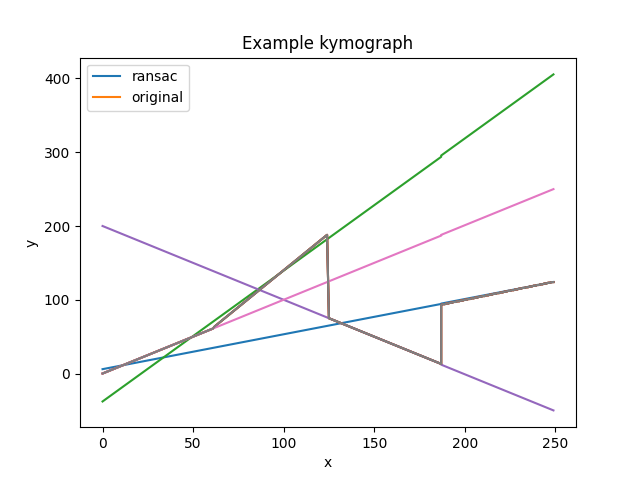
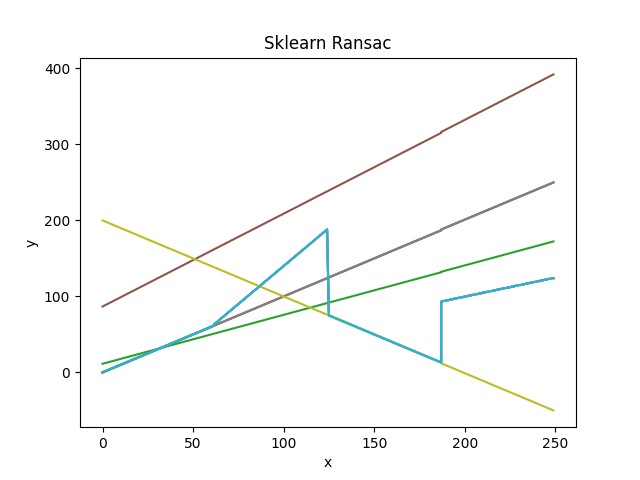
ransaconeto

diff --git a/src/caped_ai_mtrack/Fits/utils.py b/src/caped_ai_mtrack/Fits/utils.py
@@ -1,6 +1,57 @@
 import numbers
+import os
 
+import matplotlib.pyplot as plt
 import numpy as np
+from scipy import spatial
+
+
+def root_dir():
+    return os.path.dirname(os.path.abspath(__file__))
+
+
+def clean_ransac(estimators, data):
+
+    if isinstance(data, list):
+        data = np.asarray(data)
+    datalist = np.copy(data)
+    yarray, xarray = zip(*datalist.tolist())
+    tree = spatial.cKDTree(data)
+
+    segments = []
+
+    for estimator in estimators:
+
+        ypredict = []
+        xpredict = []
+        for x in range(np.asarray(xarray).shape[0]):
+            y = estimator.predict(x)
+
+            point = (y, x)
+
+            distance, nearest_location = tree.query(point)
+            nearest_location = (
+                int(data[nearest_location][0]),
+                int(data[nearest_location][1]),
+            )
+            if distance <= 4:
+                ypredict.append(y)
+                xpredict.append(x)
+        segments.append([ypredict, xpredict])
+    return segments
+
+
+def plot_ransac_gt(segments, yarray, xarray, save_name=""):
+
+    plt.cla()
+    plt.plot(xarray, yarray)
+    for ypredict, xpredict in segments:
+        plt.plot(xpredict, ypredict)
+    plt.title("MTrack Ransac")
+    plt.xlabel("x")
+    plt.ylabel("y")
+
+    plt.savefig(root_dir() + save_name)
 
 
 def check_consistent_length(*arrays):

diff --git a/src/caped_ai_mtrack/Fits/ransac.py b/src/caped_ai_mtrack/Fits/ransac.py
@@ -3,7 +3,7 @@ import warnings
 
 import numpy as np
 
-from .utils import check_consistent_length
+from .utils import check_consistent_length, clean_ransac, plot_ransac_gt
 
 _EPSILON = np.spacing(1)
 
@@ -206,8 +206,7 @@ class Ransac:
     def extract_first_ransac_line(self, starting_points):
 
         ransac_result = self.ransac(starting_points)
-        # ransac_result = ransac(np.asarray(starting_points), LineModelND, min_samples=self.min_samples,
-        # residual_threshold=self.max_distance, max_trials=self.max_trials)
+
         if ransac_result is not None:
             estimator, inliers = ransac_result
             results_inliers = []
@@ -230,6 +229,8 @@ class Ransac:
     def extract_multiple_lines(self):
 
         starting_points = self.data_points
+        data_points_list = np.copy(self.data_points)
+        data_points_list = data_points_list.tolist()
         estimators = []
         for index in range(0, self.iterations):
 
@@ -257,5 +258,9 @@ class Ransac:
 
                 break
             starting_points = inliers_removed_from_starting
+
+        segments = clean_ransac(estimators, self.data_points)
+        yarray, xarray = zip(*data_points_list)
+        plot_ransac_gt(segments, yarray, xarray, save_name="sklearn")
 
         return estimators
